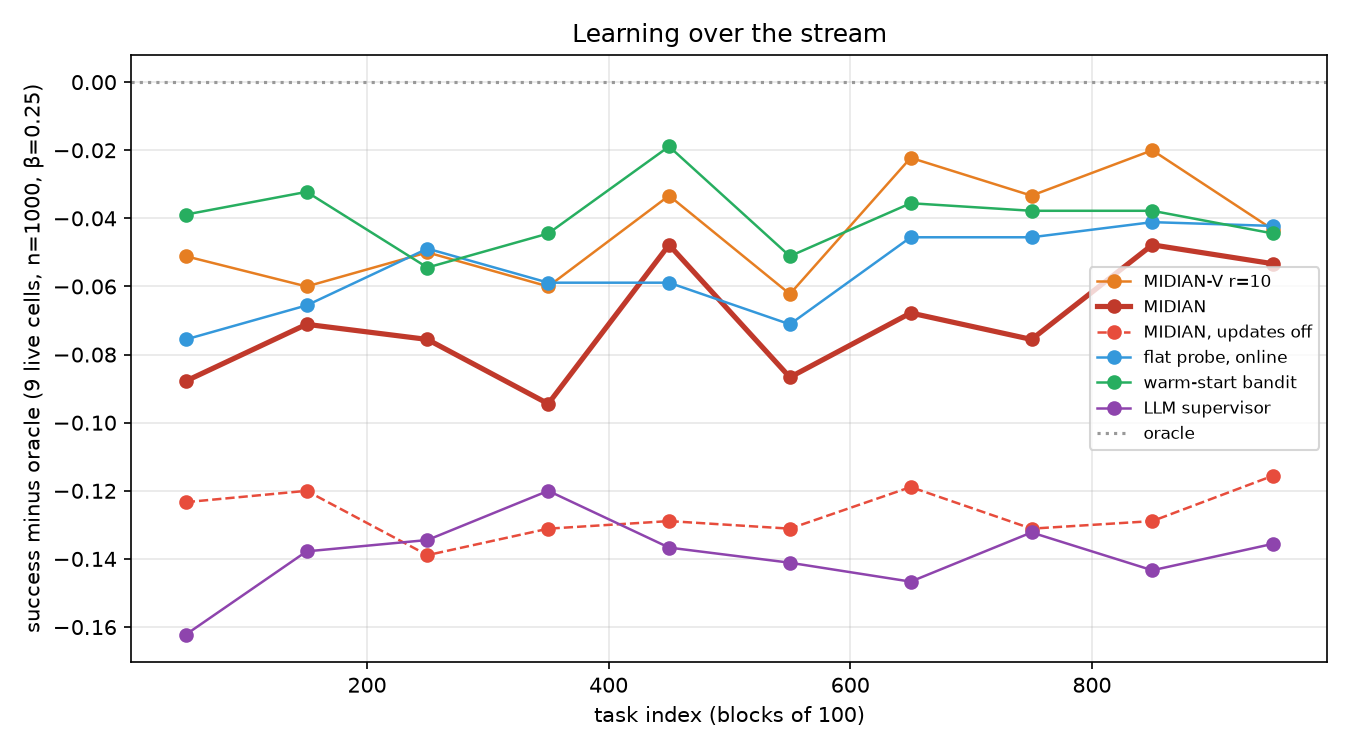
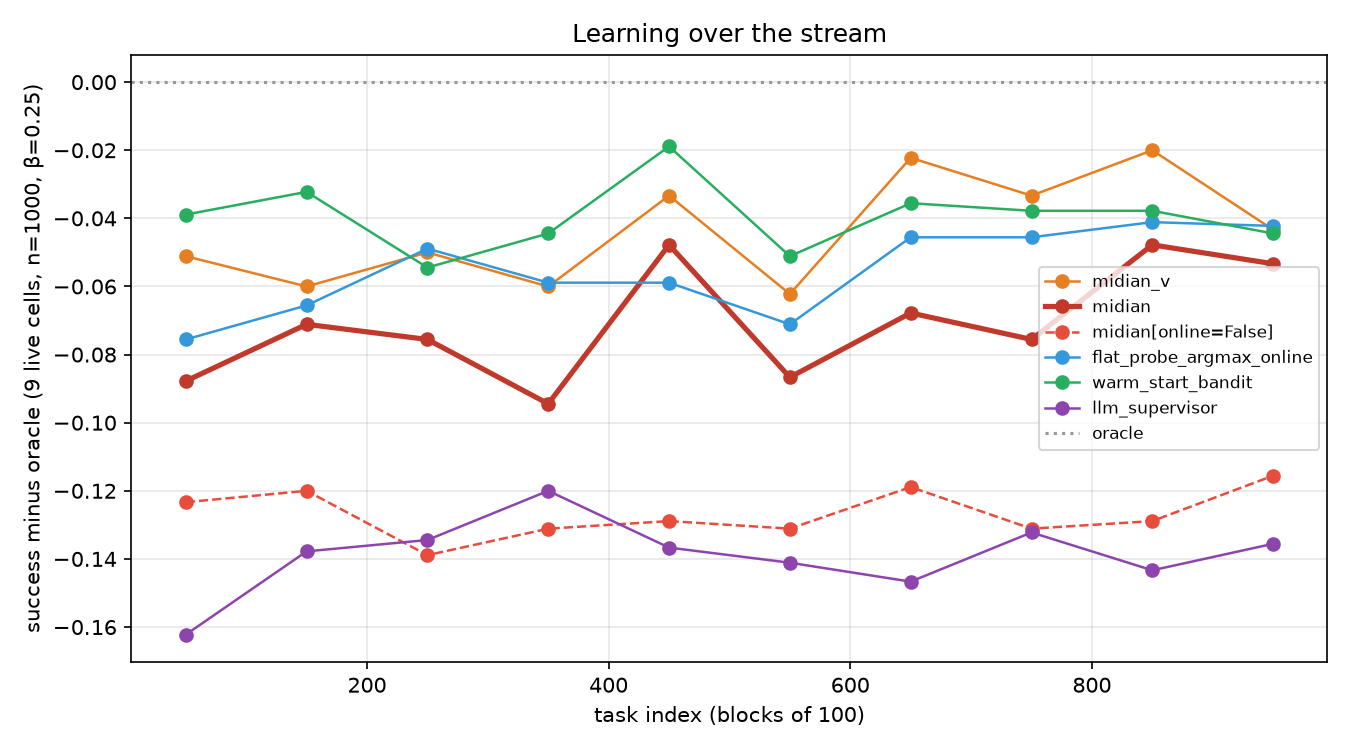
finish_v2: analyses and figures after the v2 grids closed (2026-09-03 05:57)

Changed region(s): [[0.7467, 0.3373, 0.9644, 0.5827], [0.7778, 0.5827, 0.8089, 0.6133]]

diff --git a/STATUS.md b/STATUS.md
@@ -104,3 +104,5 @@ flat_probe_argmax and (online); frameworks fw_* and fw_*(retrieval=midian, r∈{
    F1 by class with CIs, paired deltas + WITHIN_FLOOR, targets PASS/MISS with numbers, cost exponents, the b=3 tie caveat, the
    shared-S statistics caveat (seed CI excludes S measurement noise: ±0.035/±0.065 per cell), all DEVIATIONS summarized.
 3. Cleanup: `python -m rte.llm_client compact` (merge memo shards) after the last job; scancel replicas; keep the fleet until done.
+
+**2026-09-03 05:57 — finish_v2 (unattended): all v2 grids closed; analyses, targets_v2 merge (results/v2_targets) and figures regenerated. Next: fill RESULTS_rte_v2.md TODO(grid) markers from the summaries.**
